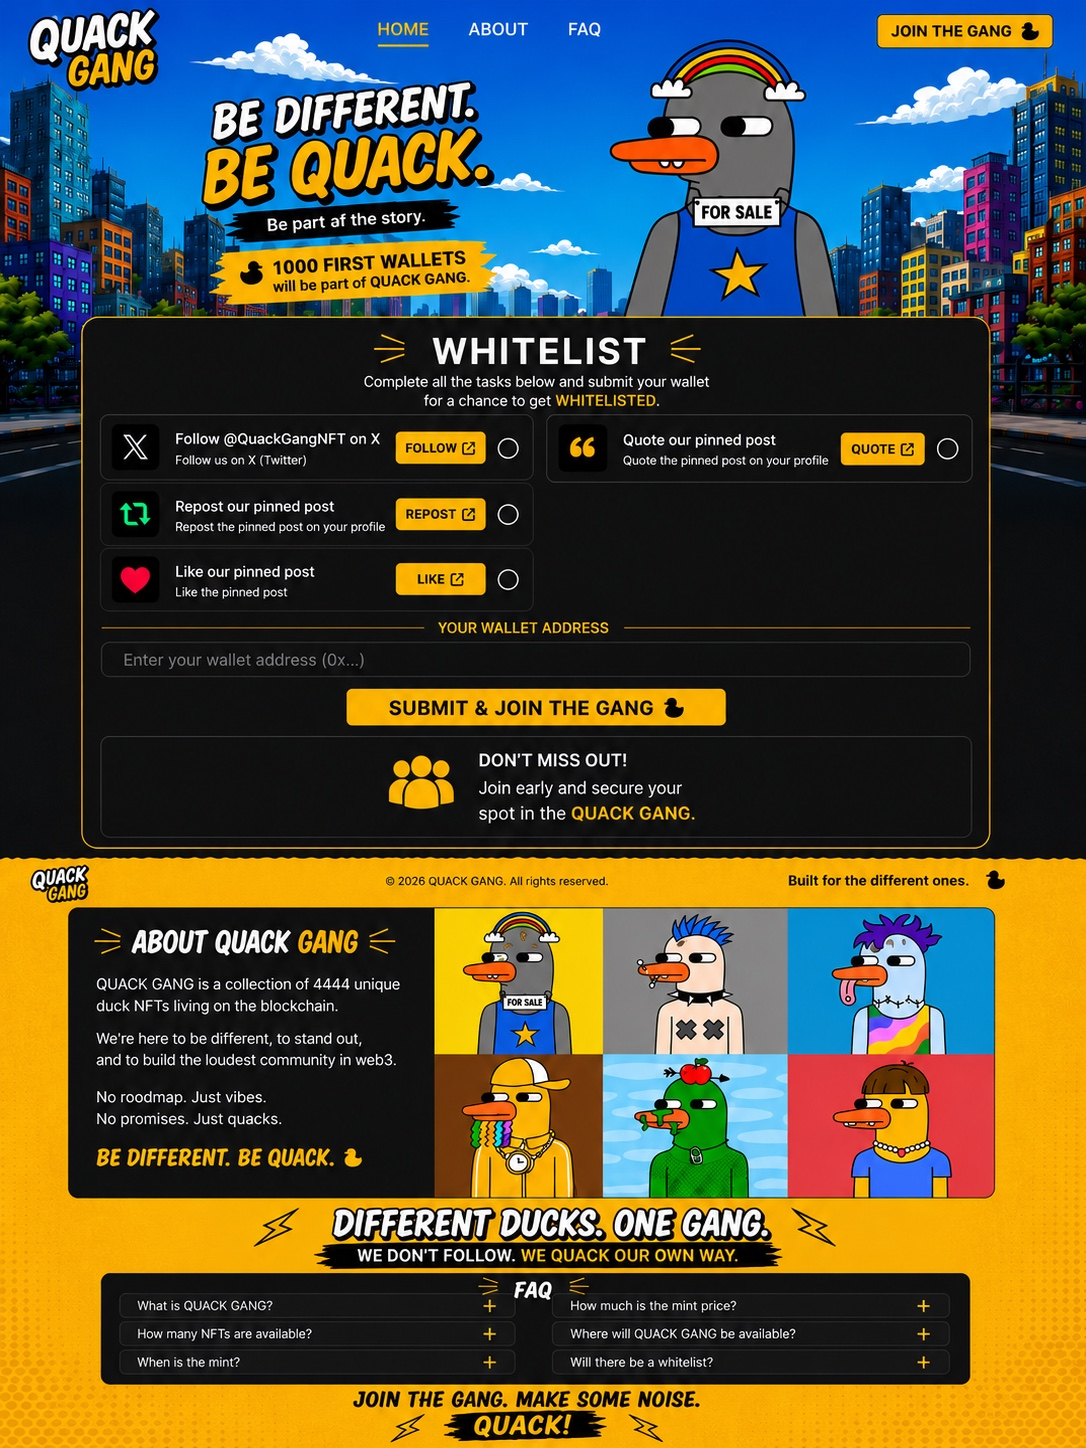
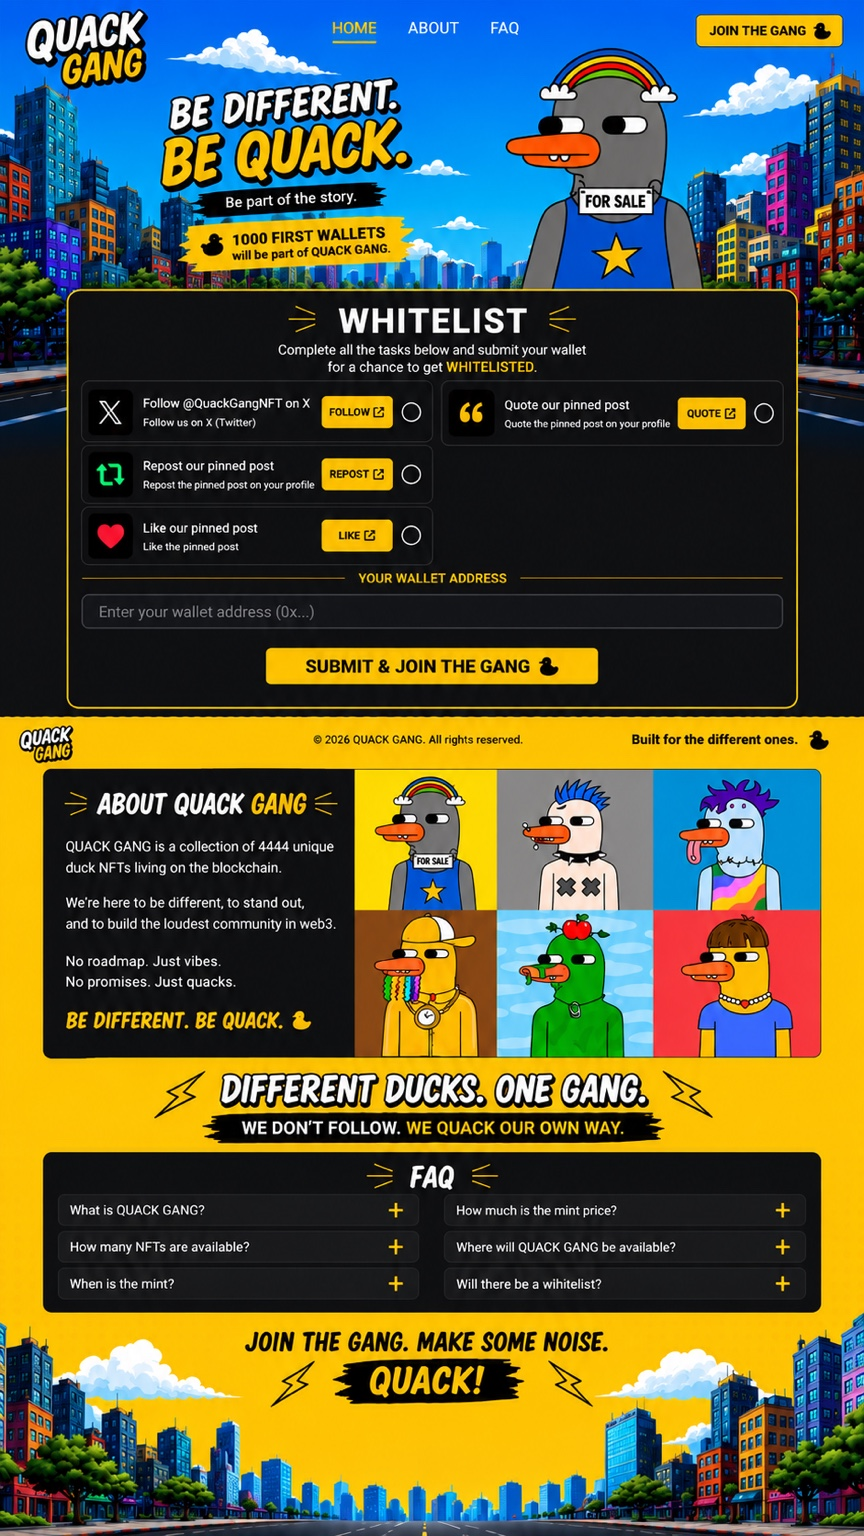
Add files via upload

diff --git a/public/style.css b/public/style.css
@@ -1,45 +1,51 @@
 *{box-sizing:border-box}
-html{margin:0;padding:0;background:#171717;overflow-x:hidden}
-body{margin:0;padding:0;background:#171717;font-family:Arial,Helvetica,sans-serif;overflow-x:hidden}
-.page{position:relative;width:100%;max-width:1086px;margin:0 auto;line-height:0}
+html{scroll-behavior:smooth}
+html,body{margin:0;padding:0;background:#ffc400;overflow-x:hidden}
+body{font-family:Arial,Helvetica,sans-serif}
+.page{position:relative;width:100%;max-width:864px;margin:0 auto;line-height:0}
 .design{display:block;width:100%;height:auto;user-select:none;-webkit-user-drag:none}
-.overlay{position:absolute;inset:0;width:100%;height:100%;line-height:normal}
-.nav,.task{position:absolute;display:block;background:transparent;border:0;padding:0;cursor:pointer;touch-action:manipulation}
+.overlay{position:absolute;inset:0;width:100%;height:100%;pointer-events:none}
+.hotspot,.task,.submit{position:absolute;display:block;background:transparent;border:0;padding:0;cursor:pointer;touch-action:manipulation;pointer-events:auto}
+.hotspot.home{left:36.5%;top:1.0%;width:6.2%;height:2.8%}
+.hotspot.about{left:46.2%;top:1.0%;width:7%;height:2.8%}
+.hotspot.faq{left:56.3%;top:1.0%;width:5.5%;height:2.8%}
+.hotspot.join{right:2.4%;top:1.0%;width:15.0%;height:3.0%}
 
-.nav.home{left:34.5%;top:1.1%;width:7%;height:3.2%}
-.nav.about{left:43.8%;top:1.1%;width:8%;height:3.2%}
-.nav.faq{left:53.0%;top:1.1%;width:6.5%;height:3.2%}
-.nav.join{left:80.6%;top:1.0%;width:15%;height:3.5%}
+/* Exact task button zones from the supplied final design. */
+.task.follow{left:37.0%;top:25.55%;width:8.5%;height:3.0%}
+.task.repost{left:37.0%;top:30.3%;width:8.5%;height:3.0%}
+.task.like{left:37.0%;top:34.25%;width:8.5%;height:3.0%}
+.task.quote{left:78.2%;top:25.7%;width:8.0%;height:3.0%}
 
-.task.follow{left:35.0%;top:26.3%;width:11%;height:3.8%}
-.task.repost{left:35.0%;top:30.4%;width:11%;height:3.8%}
-.task.like{left:35.0%;top:34.4%;width:11%;height:3.8%}
-.task.quote{left:76.0%;top:26.3%;width:11%;height:3.8%}
-
-.check{position:absolute;display:grid;place-items:center;width:2.15%;height:2.15%;font-size:1.45%;font-weight:900;color:#fff;line-height:1;background:transparent;opacity:0;pointer-events:none;z-index:5;transform:translate(-50%,-50%)}
+/* The circles are already part of design.png; these only place the ✓ inside them. */
+.check{position:absolute;transform:translate(-50%,-50%);width:2.55%;height:2.55%;
+  display:grid;place-items:center;border:0;border-radius:50%;background:transparent;
+  color:#fff;font-size:2.0%;font-weight:900;line-height:1;opacity:0;
+  pointer-events:none;z-index:4;text-shadow:0 1px 2px #000}
 .check.visible{opacity:1}
-.follow-check{left:45.5%;top:28.55%}
-.repost-check{left:45.5%;top:32.7%}
-.like-check{left:45.5%;top:36.7%}
-.quote-check{left:85.5%;top:28.55%}
+.follow-check{left:47.65%;top:26.85%}
+.repost-check{left:47.65%;top:31.55%}
+.like-check{left:47.65%;top:35.45%}
+.quote-check{left:88.55%;top:26.85%}
 
-/* Exactly one wallet input, aligned with the baked wallet field. */
-.wallet{position:absolute;left:9.0%;top:44.82%;width:78.2%;height:1.75%;padding:0 1.3cqw;border:0;background:transparent;color:#fff;font-size:1.35cqw;outline:none;line-height:1.1}
+/* One real input only; the visual field/border is already baked into design.png. */
+.wallet{position:absolute;left:9.35%;top:38.65%;width:81.3%;height:2.35%;
+  padding:0 1.4%;border:0;border-radius:8px;background:transparent;color:#fff;
+  font-size:1.55cqw;line-height:1;outline:none;pointer-events:auto}
 .wallet::placeholder{color:transparent}
+.wallet:focus{outline:none}
 
-/* Submit hotspot aligned with the final artwork. */
-.submit{position:absolute;left:30.8%;top:48.2%;width:34.8%;height:3.0%;border:0;background:transparent;cursor:pointer;touch-action:manipulation}
+.submit{left:30.9%;top:42.1%;width:38.3%;height:3.1%}
+#message{position:absolute;left:15%;top:45.7%;width:70%;text-align:center;
+  font-size:1.4cqw;font-weight:900;line-height:1.2;color:#20d84b;z-index:6;pointer-events:none}
 
-/* Live D1 counter in the left side of the lower whitelist card. */
-.live-number{position:absolute;left:18.3%;top:51.0%;width:25%;height:3.5%;display:flex;align-items:center;background:transparent;color:#fff;font-size:2.55cqw;font-weight:900;line-height:1;z-index:7;pointer-events:none;opacity:1}
-.live-fill{position:absolute;left:18.2%;top:54.55%;width:25.2%;height:.65%;min-height:4px;background:#ffc400;border-radius:999px;transform-origin:left center;transform:scaleX(0);z-index:7;pointer-events:none;opacity:1}
-
-#message{position:absolute;left:20%;top:57%;width:60%;text-align:center;font-size:1.15cqw;font-weight:900;color:#20d84b;z-index:9;pointer-events:none}
-.anchor{position:absolute;left:0;top:50%;width:1px;height:1px}
+.anchor{position:absolute;left:0;width:1px;height:1px}
+.anchor.whitelist-anchor{top:19%}
+.anchor.about-anchor{top:50%}
+.anchor.faq-anchor{top:76%}
 
 @media(max-width:700px){
- .wallet{font-size:2.1cqw}
- #message{font-size:2cqw}
- .live-number{font-size:2.55cqw}
- .live-fill{min-height:3px}
+  .wallet{font-size:2.35cqw}
+  #message{font-size:2.2cqw}
+  .check{font-size:2.05%;width:2.6%;height:2.6%}
 }

diff --git a/public/index.html b/public/index.html
@@ -1,39 +1,44 @@
 <!doctype html>
 <html lang="en">
 <head>
-<meta charset="utf-8">
-<meta name="viewport" content="width=device-width,initial-scale=1,viewport-fit=cover">
-<title>QUACK GANG</title>
-<link rel="stylesheet" href="style.css?v=final2">
+  <meta charset="utf-8">
+  <meta name="viewport" content="width=device-width, initial-scale=1, viewport-fit=cover">
+  <meta name="theme-color" content="#ffc400">
+  <title>QUACK GANG — Whitelist</title>
+  <link rel="stylesheet" href="/style.css">
 </head>
 <body>
-<div class="page">
-  <img class="design" src="design.png" alt="QUACK GANG">
-  <div class="overlay">
-    <a class="nav home" href="#home" aria-label="Home"></a>
-    <a class="nav about" href="#about" aria-label="About"></a>
-    <a class="nav faq" href="#faq" aria-label="FAQ"></a>
-    <a class="nav join" href="#whitelist" aria-label="Join the Gang"></a>
+  <main class="page">
+    <img class="design" src="/design.png" alt="QUACK GANG whitelist page">
 
-    <a class="task follow" data-task="follow" href="https://x.com/quackgangrh" target="_blank" rel="noopener"></a>
-    <a class="task repost" data-task="repost" href="https://x.com/quackgangrh/status/2095050569119674381" target="_blank" rel="noopener"></a>
-    <a class="task like" data-task="like" href="https://x.com/quackgangrh/status/2095050569119674381" target="_blank" rel="noopener"></a>
-    <a class="task quote" data-task="quote" href="#" target="_blank" rel="noopener"></a>
+    <div class="overlay" aria-label="Interactive controls">
+      <a class="hotspot home" href="#home" aria-label="Home"></a>
+      <a class="hotspot about" href="#about" aria-label="About"></a>
+      <a class="hotspot faq" href="#faq" aria-label="FAQ"></a>
+      <a class="hotspot join" href="#whitelist" aria-label="Join the gang"></a>
 
-    <span class="check follow-check">✓</span>
-    <span class="check repost-check">✓</span>
-    <span class="check like-check">✓</span>
-    <span class="check quote-check">✓</span>
+      <a class="task follow" data-task="follow" href="https://x.com/QuackGangNFT" target="_blank" rel="noopener" aria-label="Follow Quack Gang on X"></a>
+      <a class="task repost" data-task="repost" href="https://x.com/QuackGangRH/status/2095050569119674381?s=20" target="_blank" rel="noopener" aria-label="Repost pinned post"></a>
+      <a class="task like" data-task="like" href="https://x.com/QuackGangRH/status/2095050569119674381?s=20" target="_blank" rel="noopener" aria-label="Like pinned post"></a>
+      <a class="task quote" data-task="quote" href="#" aria-label="Quote pinned post"></a>
 
-    <input id="wallet" class="wallet" type="text" placeholder="Enter your wallet address (0x...)" autocomplete="off">
-    <button id="submit" class="submit" type="button" aria-label="Submit and join the gang"></button>
+      <span class="check follow-check" aria-hidden="true">✓</span>
+      <span class="check repost-check" aria-hidden="true">✓</span>
+      <span class="check like-check" aria-hidden="true">✓</span>
+      <span class="check quote-check" aria-hidden="true">✓</span>
 
-    <span id="live-number" class="live-number" aria-live="polite">0 / 1,000</span>
-    <span id="live-fill" class="live-fill" aria-hidden="true"></span>
-    <div id="message"></div>
-    <span id="whitelist" class="anchor"></span>
-  </div>
-</div>
-<script src="app.js?v=final2"></script>
+      <input id="wallet" class="wallet" type="text" inputmode="text" autocomplete="off"
+             aria-label="Wallet address" placeholder="Enter your wallet address (0x...)">
+
+      <button id="submit" class="submit" type="button" aria-label="Submit and join the gang"></button>
+      <div id="message" role="status" aria-live="polite"></div>
+
+      <span id="home" class="anchor"></span>
+      <span id="whitelist" class="anchor whitelist-anchor"></span>
+      <span id="about" class="anchor about-anchor"></span>
+      <span id="faq" class="anchor faq-anchor"></span>
+    </div>
+  </main>
+  <script src="/app.js"></script>
 </body>
 </html>

diff --git a/public/app.js b/public/app.js
@@ -3,8 +3,6 @@ const done=new Set();
 const message=document.getElementById("message");
 const wallet=document.getElementById("wallet");
 const submit=document.getElementById("submit");
-const liveNumber=document.getElementById("live-number");
-const liveFill=document.getElementById("live-fill");
 
 function showCheck(name){
   done.add(name);
@@ -14,44 +12,41 @@ function showCheck(name){
 const quoteText="4444 QUACK GANG IS COMING TO ROBINHOOD CHAIN\n#ROBINHOOD #QUACKGANG #NFT";
 const pinnedPost="https://x.com/QuackGangRH/status/2095050569119674381?s=20";
 
-document.querySelector('[data-task="quote"]')?.addEventListener("click",e=>{
-  e.currentTarget.href=`https://x.com/intent/tweet?text=${encodeURIComponent(quoteText)}&url=${encodeURIComponent(pinnedPost)}`;
-  showCheck("quote");
-});
+const quoteTask=document.querySelector('[data-task="quote"]');
+if(quoteTask){
+  quoteTask.addEventListener("click",(e)=>{
+    e.preventDefault();
+    const url=`https://x.com/intent/tweet?text=${encodeURIComponent(quoteText)}&url=${encodeURIComponent(pinnedPost)}`;
+    window.open(url,"_blank","noopener");
+    showCheck("quote");
+  });
+}
 
 tasks.filter(x=>x!=="quote").forEach(name=>{
   document.querySelector(`[data-task="${name}"]`)?.addEventListener("click",()=>showCheck(name));
 });
 
-async function updateCounter(){
-  try{
-    const r=await fetch("/api/count",{cache:"no-store"});
-    const d=await r.json();
-    const n=Math.max(0,Math.min(1000,Number(d.count)||0));
-    liveNumber.textContent=`${n.toLocaleString()} / 1,000`;
-    liveFill.style.transform=`scaleX(${n/1000})`;
-  }catch(e){
-    liveNumber.textContent="0 / 1,000";
-    liveFill.style.transform="scaleX(0)";
-  }
+function validWallet(v){
+  return /^0x[a-fA-F0-9]{20,120}$/.test(v);
 }
-updateCounter();
-
-function validWallet(v){return /^0x[a-fA-F0-9]{20,120}$/.test(v)}
 
 submit.addEventListener("click",async()=>{
   message.textContent="";
+  message.style.color="#20d84b";
+
   if(tasks.some(x=>!done.has(x))){
     message.style.color="#ff5555";
     message.textContent="Please complete all tasks first.";
     return;
   }
+
   const w=wallet.value.trim();
   if(!validWallet(w)){
     message.style.color="#ff5555";
     message.textContent="Please enter a valid wallet address.";
     return;
   }
+
   submit.disabled=true;
   try{
     const r=await fetch("/api/submit",{
@@ -60,11 +55,9 @@ submit.addEventListener("click",async()=>{
       body:JSON.stringify({wallet:w})
     });
     const d=await r.json();
-    if(!r.ok)throw new Error(d.error||"Submission failed.");
-    message.style.color="#20d84b";
+    if(!r.ok) throw new Error(d.error||"Submission failed.");
     message.textContent="WHITELIST SUBMITTED ✓";
     wallet.value="";
-    await updateCounter();
   }catch(e){
     message.style.color="#ff5555";
     message.textContent=e.message||"Unable to submit right now";
